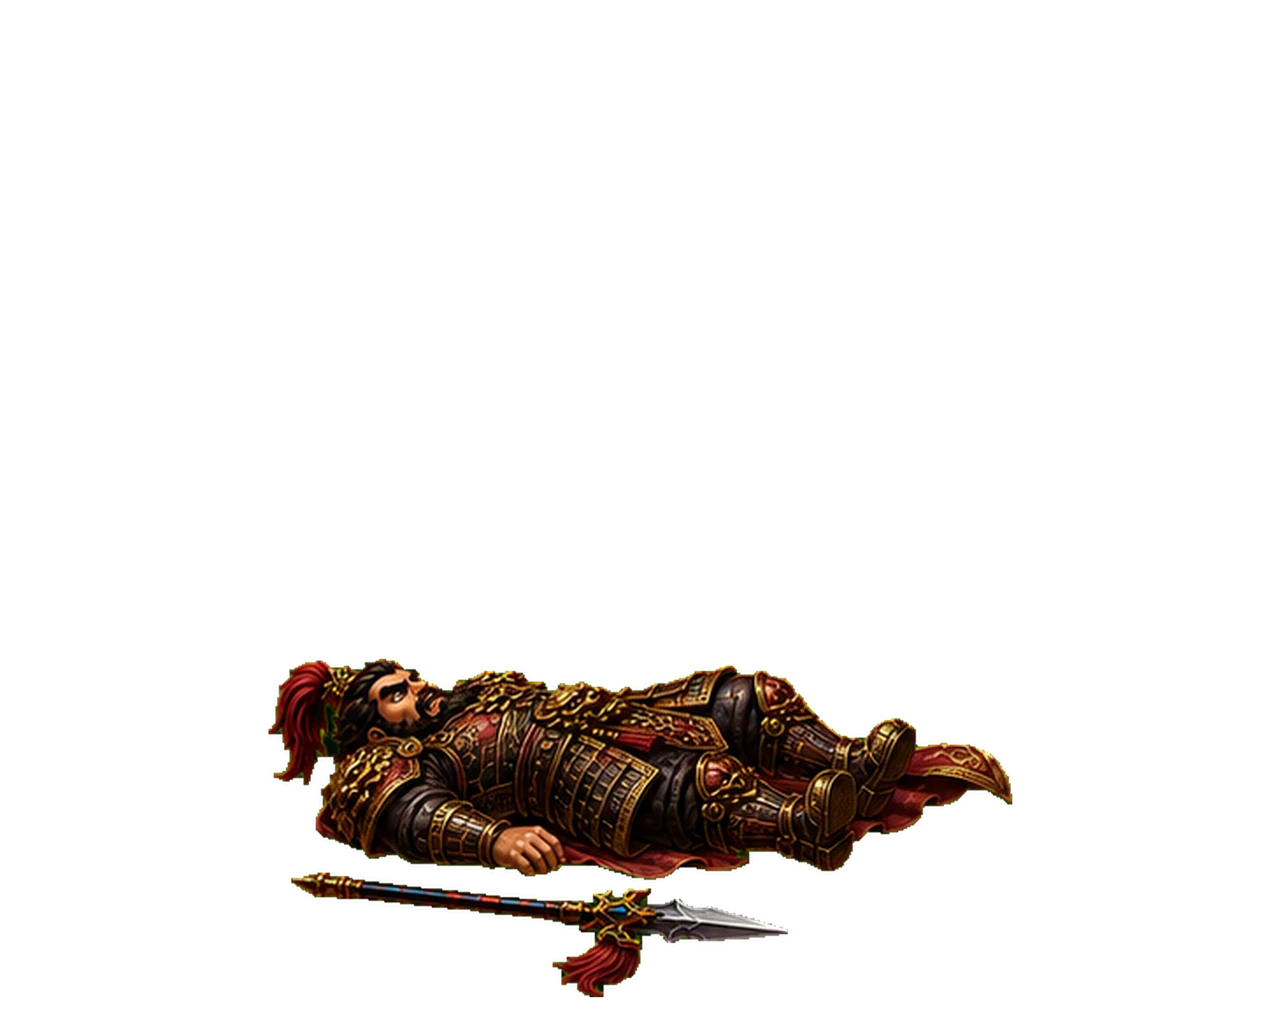
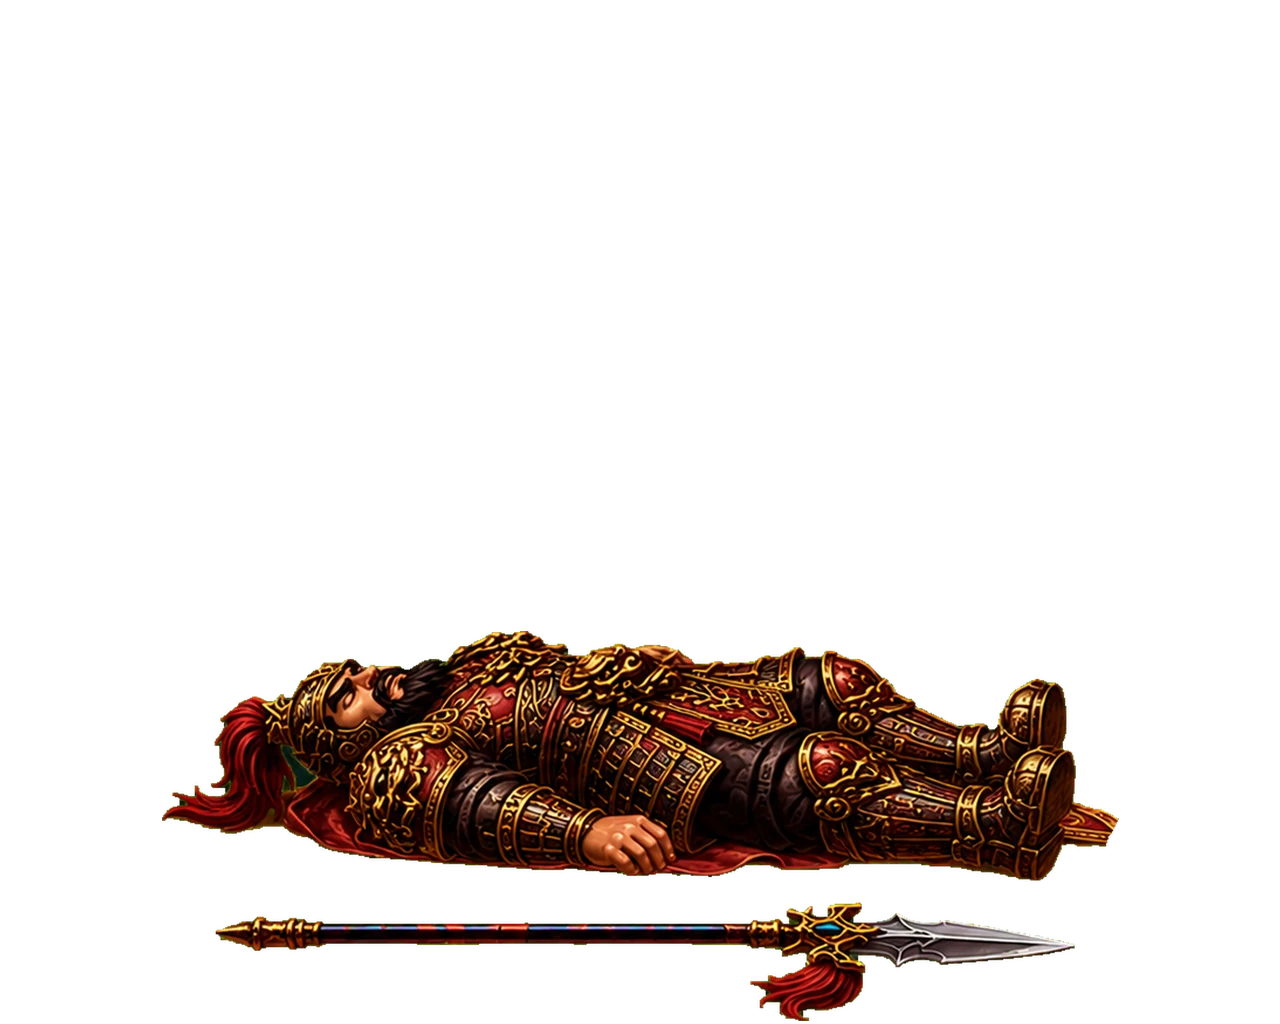
fix(duel): retain yan liang helmet in grounded KO

Changed region(s): [[0.125, 0.5938, 0.875, 1.0]]

diff --git a/tools/patch_general.py b/tools/patch_general.py
@@ -114,8 +114,15 @@ def main():
     ref = statistics.median([c for c in (core_size(Image.open(f).convert('RGBA'))
                                          for f in keep) if c])
     new = statistics.median([c for c in (core_size(Image.open(f)) for f in made) if c])
-    k = ref / new
-    print(f'[크기 맞춤] 기존 {ref:.0f} / 새 컷 {new:.0f} → 배율 {k:.3f}')
+    # A grounded KO is intentionally horizontal.  Its height is not comparable
+    # to a standing pose, so re-scaling it by the roster's vertical body metric
+    # would enlarge it again and crop the head or weapon.
+    keep_fitted_ko = any(n == 'ko_down' for n in names)
+    k = 1.0 if keep_fitted_ko else ref / new
+    if keep_fitted_ko:
+        print('[크기 맞춤] ko_down: 캔버스에 맞춘 가로 KO 크기 유지')
+    else:
+        print(f'[크기 맞춤] 기존 {ref:.0f} / 새 컷 {new:.0f} → 배율 {k:.3f}')
 
     # 3) 교체 + 창끝 좌표 갱신
     pj = os.path.join(cut, 'poses.json')

diff --git a/tools/split_pose_sheet.py b/tools/split_pose_sheet.py
@@ -376,7 +376,9 @@ def normalize_set(pieces, names, out_dir, ref=0, lift=None, fit_body=True):
         dy = round(BASELINE - m[0]) - lift.get(name, 0)
         # 캔버스를 벗어나면 **딱 들어갈 만큼만** 줄인다.
         # 어림잡아 줄이면 그 컷만 작아져서(관우 guard_just 가 -13%) 크기가 튄다.
-        for t in [1 - i * 0.015 for i in range(15)]:
+        # Horizontal KO poses can be much wider than standing poses.  Keep
+        # reducing until the complete silhouette fits rather than clipping it.
+        for t in [1 - i * 0.015 for i in range(50)]:
             if t < 1:
                 w2, h2 = max(1, round(w * t)), max(1, round(h * t))
                 rr = r.resize((w2, h2), Image.LANCZOS)
